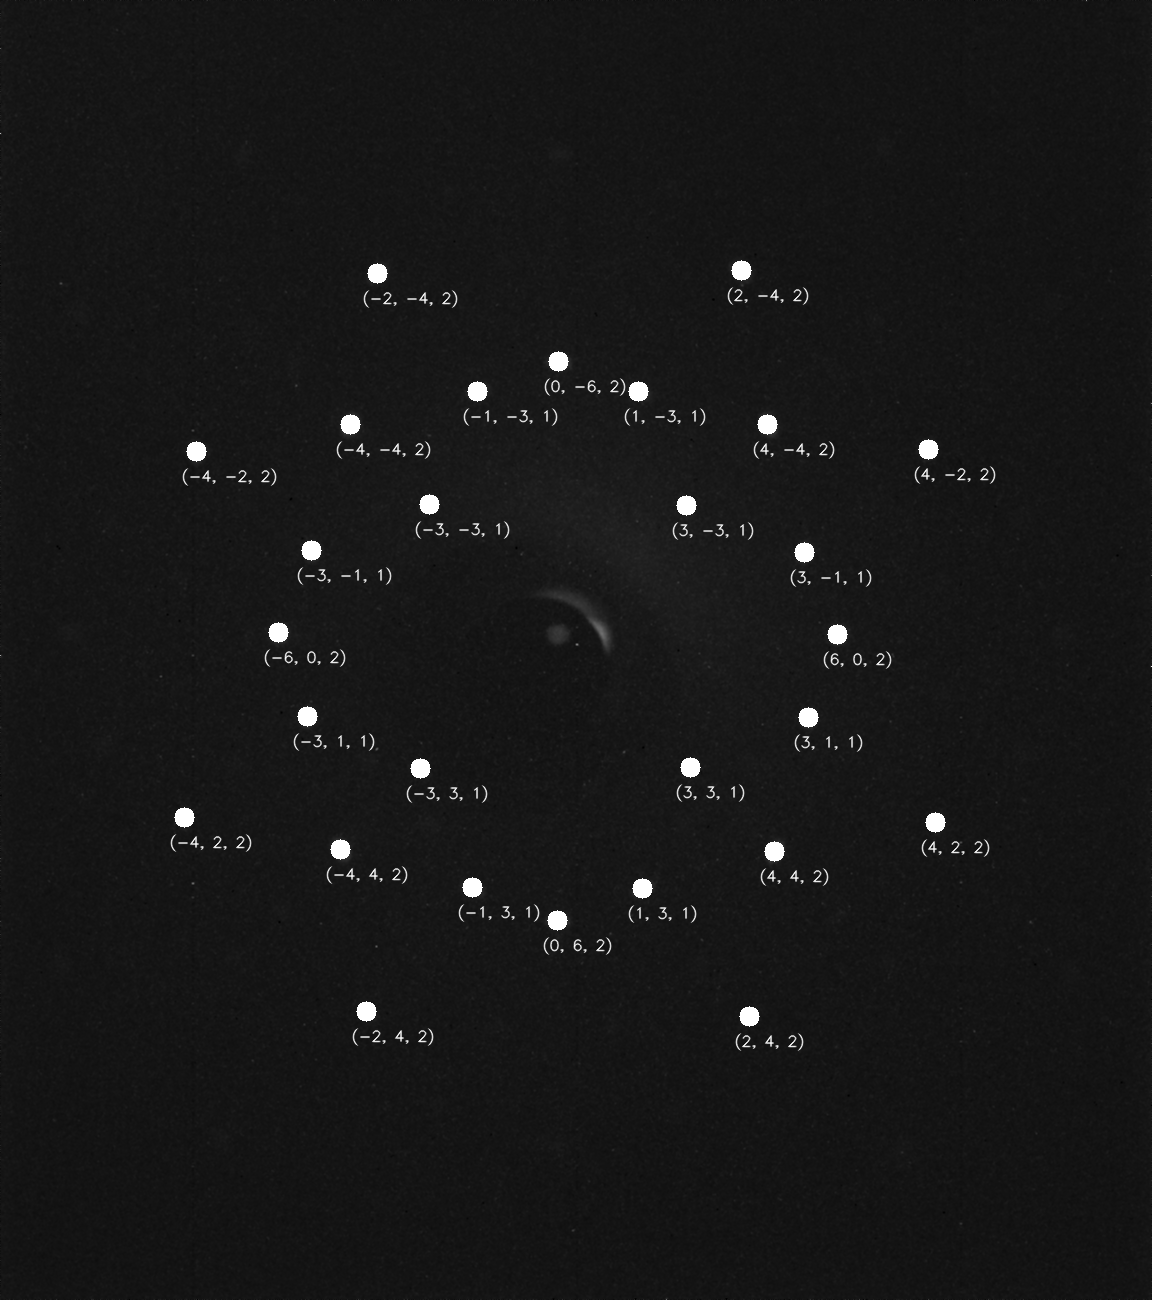
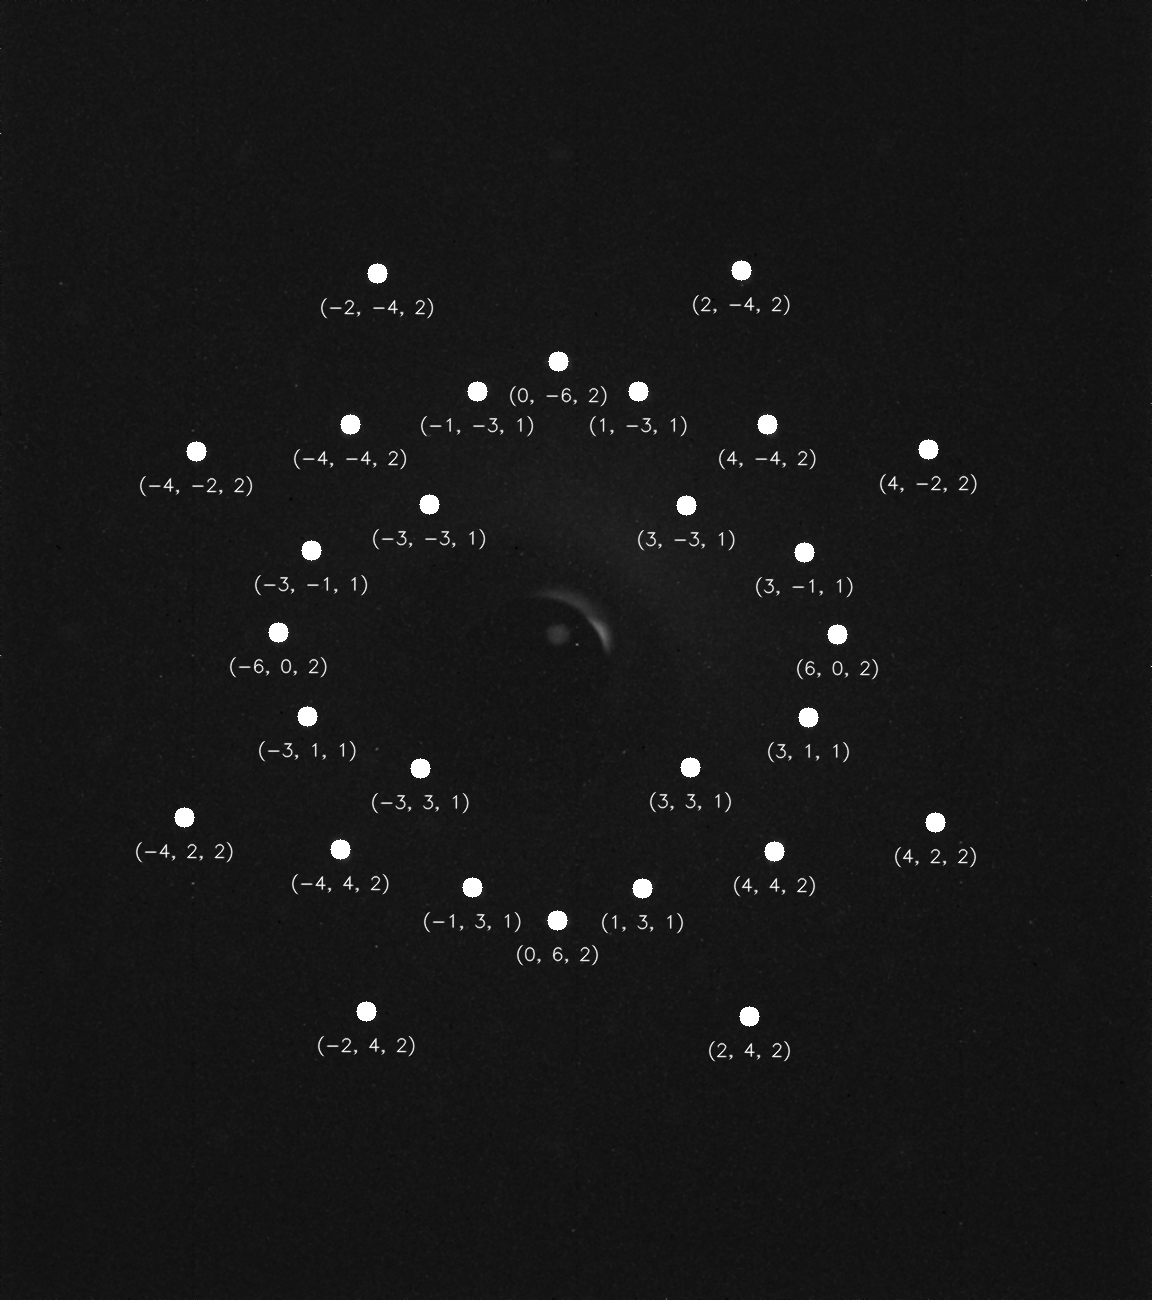
lot of changes
Bigger (h,k,l) on image
Spines on gnomo
SNR

diff --git a/analyse_Laue.py b/analyse_Laue.py
@@ -214,9 +214,26 @@ def draw_points(image, name, centroids, laue_dict, center):
 
         cv2.circle(colored_spectrum, (x, y), 10, (255, 255, 255), -1)
 
-        cv2.putText(colored_spectrum, str((h[i],k[i],l[i])), (x-15, y+30),
-                    cv2.FONT_HERSHEY_SIMPLEX, 0.5, (255, 255, 255), 1, cv2.LINE_AA)
-    
+        text = str((h[i], k[i], l[i]))
+        text_size = cv2.getTextSize(text, cv2.FONT_HERSHEY_SIMPLEX, 0.6, 1)[0]
+
+        text_x = x - text_size[0] // 2
+        text_y = y + 40
+
+        # Ensure text doesn't go outside the image boundaries
+        if text_x < 0:
+            text_x = 0
+        elif text_x + text_size[0] > image.shape[1]:
+            text_x = image.shape[1] - text_size[0]
+
+        if text_y < 0:
+            text_y = 0
+        elif text_y + text_size[1] > image.shape[0]:
+            text_y = image.shape[0] - text_size[1]
+
+        cv2.putText(colored_spectrum, text, (text_x, text_y),
+                    cv2.FONT_HERSHEY_SIMPLEX, 0.6, (255, 255, 255), 1, cv2.LINE_AA)
+
     out_dir = os.path.join("output", "05_hkl")
     os.makedirs(out_dir, exist_ok=True)
     cv2.imwrite(os.path.join(out_dir, name + ".png"), colored_spectrum)
@@ -336,7 +353,6 @@ def laue(name, centroids, uncerts, center):
         'l': [],
         'n': [],
         'd_hkl': [],
-        'd_hkl_err': [],
         'theta': [],
         'wavelength': []
     }
@@ -399,11 +415,8 @@ def laue(name, centroids, uncerts, center):
                         factor = l / zQ
                         h = round(xQ * factor)
                         k = round(yQ * factor)
-                    #if (h + k + l) % 4 != 0:
-                    #    l = 1
-                    #    factor = l / zQ
-                    #    h = round(xQ * factor) + 1
-                    #    k = round(yQ * factor) + 1
+                        if (h + k + l) % 4 != 0:
+                            raise ValueError("Couldn't find a valid Miller index combination.")
 
         else:
             if (h + k) % 2 != 0 or (h + l) % 2 != 0:
@@ -414,8 +427,6 @@ def laue(name, centroids, uncerts, center):
 
         n = np.sqrt(h ** 2 + k ** 2 + l ** 2)
         d_hkl = a0 / n
-        d_hkl_uncert = a0 / np.sqrt((xQ_uncert*factor)**2 +
-                                    (yQ_uncert*factor)**2 + (zQ_uncert*factor)**2)
 
         theta = np.arctan(zQ / np.sqrt(xQ ** 2 + yQ ** 2))
         wavelength = 2 * d_hkl * np.sin(theta)
@@ -428,7 +439,6 @@ def laue(name, centroids, uncerts, center):
         laue_data['l'].append(l)
         laue_data['n'].append(round(n))
         laue_data['d_hkl'].append(d_hkl)
-        laue_data['d_hkl_err'].append(d_hkl_uncert)
         laue_data['theta'].append(theta)
         laue_data['wavelength'].append(wavelength)
 
@@ -475,15 +485,21 @@ def gnomonique(laue_data, name):
     u = np.array(h) / np.array(l)
 
     plt.scatter(v, u, color=palette[0], s=15)
-    plt.xlabel(r'$u = h/l$   [-]', fontsize=16)
-    plt.ylabel(r'$v = k/l$   [-]', fontsize=16)
+    plt.tick_params(axis="both", which="major", direction="inout", length=7, labelsize=12)
+    plt.tick_params(axis="both", which="minor", direction="inout", length=4)
     plt.minorticks_on()
-    plt.tick_params(axis="both", which="both", direction="in", top=True, right=True, labelsize=14)
+    ax = plt.gca()
+    ax.spines.left.set_position('zero')
+    ax.spines['bottom'].set_position('zero')
+    ax.spines['right'].set_color('none')
+    ax.spines['top'].set_color('none')
+    plt.xlabel(r'$u = h/l$ [-]', fontsize=15, loc='right')
+    plt.ylabel(r'$v = k/l$ [-]', fontsize=15, loc='top')
 
     out_dir = os.path.join("output", "06_gnomonique")
     os.makedirs(out_dir, exist_ok=True)
 
-    plt.savefig(os.path.join(out_dir, name), transparent=True)
+    plt.savefig(os.path.join(out_dir, name), transparent=True, bbox_inches="tight", dpi=400)
     plt.close()
 
 def plot_a0(lif_data, nacl_data, si_data):
@@ -587,15 +603,15 @@ if __name__ == "__main__":
     laue_dict_si = laue(si_name, centroids_si, uncert_si, center_si)
     #lau_to_excel(lif_name, laue_dict_lif)
     #lau_to_excel(nacl_name, laue_dict_nacl)
-    lau_to_excel(si_name, laue_dict_si)
+    #lau_to_excel(si_name, laue_dict_si)
 
-    #draw_points(lif_img, lif_name, centroids_lif, laue_dict_lif, center_lif)
-    #draw_points(nacl_img, nacl_name, centroids_nacl, laue_dict_nacl, center_nacl)
+    draw_points(lif_img, lif_name, centroids_lif, laue_dict_lif, center_lif)
+    draw_points(nacl_img, nacl_name, centroids_nacl, laue_dict_nacl, center_nacl)
     draw_points(si_img, si_name, centroids_si, laue_dict_si, center_si)
 
     #gnomonique(laue_dict_lif, lif_name)
     #gnomonique(laue_dict_nacl, nacl_name)
-    gnomonique(laue_dict_si, si_name)
+    #gnomonique(laue_dict_si, si_name)
 
     a0 = plot_a0(laue_dict_lif, laue_dict_nacl, laue_dict_si)
-    lau_to_excel("a0", a0)
+    #lau_to_excel("a0", a0)
